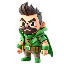
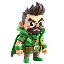
Flip character sprites for player two
- Added horizontal flipping for player two's character sprites in game

- Added horizontal flipping for player two's character selection menu thumbnails

- Added horizontal flipping for player two's preview sprite in character selection

- Ensures consistent character orientation with player two's sprites facing player one

diff --git a/screens/preparemenu.py b/screens/preparemenu.py
@@ -88,7 +88,7 @@ class PrepareMenu(scene.Scene):
 		self.number_of_rounds_text.y = self.number_of_rounds_menu.y - (self.number_of_rounds_text.get_height() * 2)
 
 		# The character menu for player one.
-		self.character_menu_one = self.setup_character_menu(self.character_one)
+		self.character_menu_one = self.setup_character_menu(self.character_one, False)
 		self.ai_menu_one = self.setup_ai_menu(self.ai_one)
 
 		ai_menu_offset = 20
@@ -103,7 +103,7 @@ class PrepareMenu(scene.Scene):
 		self.menu_list.append(self.ai_menu_one)
 
 		# The character menu for player two.
-		self.character_menu_two = self.setup_character_menu(self.character_two)
+		self.character_menu_two = self.setup_character_menu(self.character_two, True)
 		self.ai_menu_two = self.setup_ai_menu(self.ai_two)
 
 		self.character_menu_two.x = settings.SCREEN_WIDTH - ((settings.SCREEN_WIDTH - self.character_menu_two.get_width() - self.ai_menu_two.get_width() - ai_menu_offset) / 5.0) - self.character_menu_two.get_width()
@@ -149,13 +149,13 @@ class PrepareMenu(scene.Scene):
 		# And finally, we start the gameloop!
 		self.gameloop()
 
-	def setup_character_menu(self, function):
+	def setup_character_menu(self, function, is_player_two=False):
 		# Creates a grid menu for character selection (2 rows x 3 columns)
 		character_menu = gridmenu.GridMenu(3)  # 3 columns
-		self.setup_character_items(character_menu, function)
+		self.setup_character_items(character_menu, function, is_player_two)
 		return character_menu
 
-	def setup_character_items(self, grid_menu, function):
+	def setup_character_items(self, grid_menu, function, is_player_two):
 		# Add 6 different character items to the grid menu
 		characters = ["red", "green", "blue", "yellow", "magenta", "cyan"]
 		
@@ -166,6 +166,11 @@ class PrepareMenu(scene.Scene):
 			if not os.path.exists(thumbnail_path):
 				thumbnail_path = os.path.join("res", "character", f"{character}.png")
 			character_item = imageitem.ImageItem(thumbnail_path)
+			
+			# Flip the sprite if this is player two's menu
+			if is_player_two:
+				character_item.image = pygame.transform.flip(character_item.image, True, False)
+			
 			character_item.character = character
 			character_item.color = self.character_colors[character]
 			grid_menu.add(character_item, function)
@@ -370,6 +375,8 @@ class PrepareMenu(scene.Scene):
 			if os.path.exists(sprite_path):
 				sprite = pygame.image.load(sprite_path)
 				sprite = pygame.transform.scale(sprite, (64, 64))
+				# Flip sprite horizontally for player two
+				sprite = pygame.transform.flip(sprite, True, False)
 				
 				# Create a copy for alpha
 				sprite_alpha = sprite.copy()

diff --git a/objects/player.py b/objects/player.py
@@ -81,6 +81,9 @@ class Player(pygame.sprite.Sprite):
 		if os.path.exists(sprite_path):
 			self.sprite = pygame.image.load(sprite_path)
 			self.sprite = pygame.transform.scale(self.sprite, (self.CHARACTER_SIZE, self.CHARACTER_SIZE))
+			# Flip sprite horizontally if this is player two (right side)
+			if self.x > settings.SCREEN_WIDTH / 2:
+				self.sprite = pygame.transform.flip(self.sprite, True, False)
 
 		# Character jerk animation state
 		self.jerk_duration = 0
